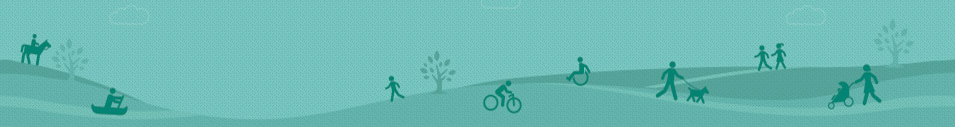
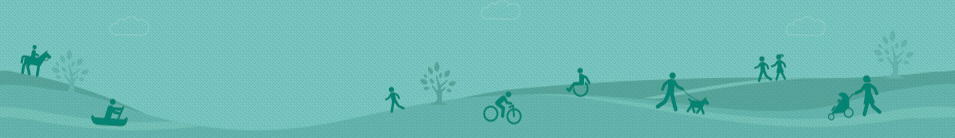
slightly cropped header

diff --git a/css/site.css b/css/site.css
@@ -6,7 +6,7 @@ h2 {font-size: 50px; font-family: Amatic SC; font-weight: normal; margin: 11px 0
 h3 {font-family: Amatic SC; font-size: 30px; margin: 10px 0px;}
 h4 {font-family: Lato; font-size: 24px;}
 
-.header {background-image: url(../header3.jpg); background-size: 100%;}
+.header {background-image: url(../header2.jpg);}
 .header img {float: left; padding-left: 20px; padding-right: 20px;}
 .header h1 {position: relative; padding-left: 10%;}
 
